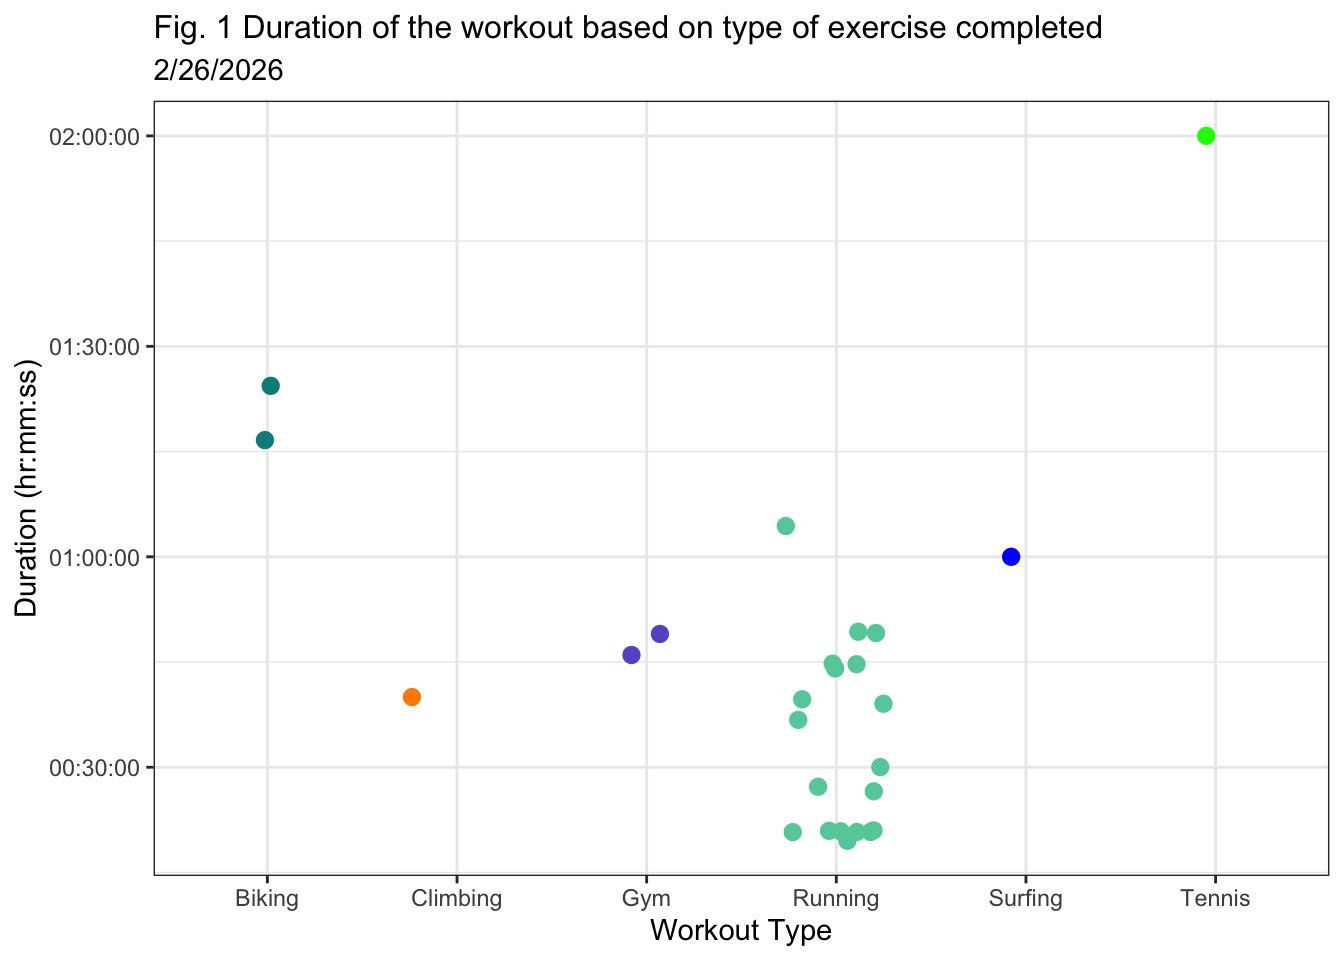
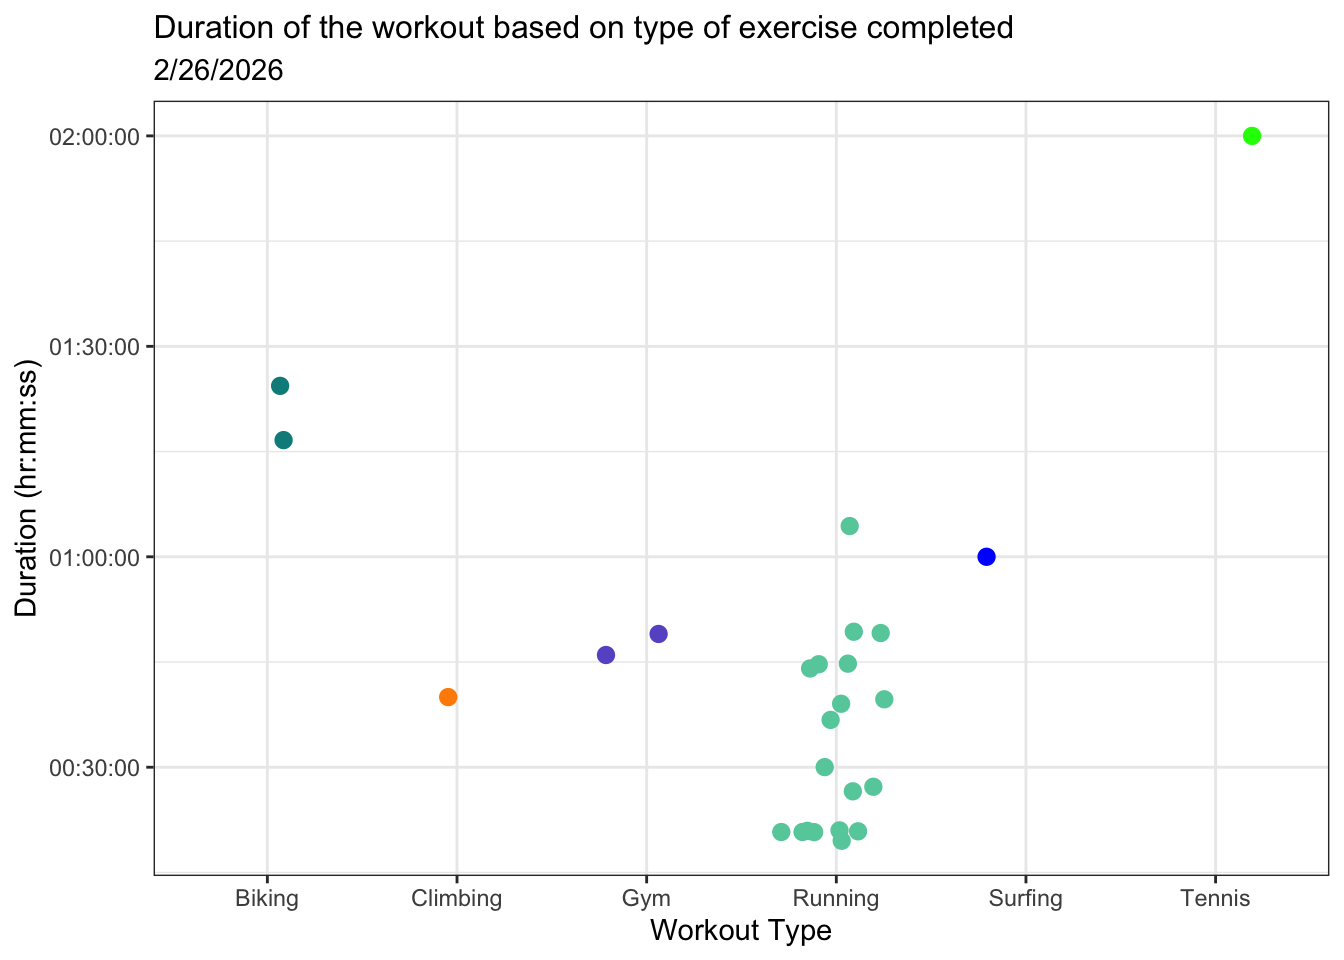
Add sketch of affective visual into the markdown

diff --git a/code/Homework 3.html b/code/Homework 3.html
@@ -243,7 +243,7 @@ sample estimates:
 <span id="cb8-15"><a href="#cb8-15" aria-hidden="true" tabindex="-1"></a>                              <span class="st">"Surfing"</span> <span class="ot">=</span> <span class="st">"blue"</span>, </span>
 <span id="cb8-16"><a href="#cb8-16" aria-hidden="true" tabindex="-1"></a>                              <span class="st">"Climbing"</span> <span class="ot">=</span> <span class="st">"darkorange"</span>, </span>
 <span id="cb8-17"><a href="#cb8-17" aria-hidden="true" tabindex="-1"></a>                              <span class="st">"Tennis"</span> <span class="ot">=</span> <span class="st">"green"</span>)) <span class="sc">+</span> </span>
-<span id="cb8-18"><a href="#cb8-18" aria-hidden="true" tabindex="-1"></a><span class="fu">labs</span>(<span class="at">title =</span> <span class="st">"Fig. 1 Duration of the workout based on type of exercise completed"</span>, <span class="co">#title </span></span>
+<span id="cb8-18"><a href="#cb8-18" aria-hidden="true" tabindex="-1"></a><span class="fu">labs</span>(<span class="at">title =</span> <span class="st">"Duration of the workout based on type of exercise completed"</span>, <span class="co">#title </span></span>
 <span id="cb8-19"><a href="#cb8-19" aria-hidden="true" tabindex="-1"></a>      <span class="at">x =</span> <span class="st">"Workout Type"</span>, <span class="co">#x-axis title </span></span>
 <span id="cb8-20"><a href="#cb8-20" aria-hidden="true" tabindex="-1"></a>      <span class="at">y =</span> <span class="st">"Duration (hr:mm:ss)"</span>, </span>
 <span id="cb8-21"><a href="#cb8-21" aria-hidden="true" tabindex="-1"></a>     <span class="at">subtitle =</span> <span class="st">"2/26/2026"</span>) <span class="sc">+</span> <span class="co">#y-axis title including units</span></span>
@@ -267,7 +267,7 @@ sample estimates:
 <span id="cb9-4"><a href="#cb9-4" aria-hidden="true" tabindex="-1"></a>       <span class="fu">aes</span>(<span class="at">x =</span> distance_mi, <span class="co"># x-axis</span></span>
 <span id="cb9-5"><a href="#cb9-5" aria-hidden="true" tabindex="-1"></a>           <span class="at">y =</span> pace)) <span class="sc">+</span> <span class="co">#y-axis</span></span>
 <span id="cb9-6"><a href="#cb9-6" aria-hidden="true" tabindex="-1"></a><span class="fu">geom_point</span>(<span class="at">color =</span> <span class="st">"cornflowerblue"</span>) <span class="sc">+</span><span class="co">#color the points</span></span>
-<span id="cb9-7"><a href="#cb9-7" aria-hidden="true" tabindex="-1"></a><span class="fu">labs</span>(<span class="at">title =</span> <span class="st">"Fig 2. Running Mileage vs. pace"</span>, <span class="co">#title </span></span>
+<span id="cb9-7"><a href="#cb9-7" aria-hidden="true" tabindex="-1"></a><span class="fu">labs</span>(<span class="at">title =</span> <span class="st">"Running Mileage vs. pace"</span>, <span class="co">#title </span></span>
 <span id="cb9-8"><a href="#cb9-8" aria-hidden="true" tabindex="-1"></a>     <span class="at">x =</span> <span class="st">"Distance (mi)"</span>, <span class="co">#x-axis title</span></span>
 <span id="cb9-9"><a href="#cb9-9" aria-hidden="true" tabindex="-1"></a>     <span class="at">y =</span> <span class="st">"Pace (h:mm:ss)"</span>, <span class="co">#y-axis title </span></span>
 <span id="cb9-10"><a href="#cb9-10" aria-hidden="true" tabindex="-1"></a>     <span class="at">subtitle =</span> <span class="st">"2/25/2026"</span>) <span class="sc">+</span> <span class="co">#add subtitle that is the date of the last recorded observation </span></span>
@@ -289,8 +289,30 @@ sample estimates:
 <p><strong>Figure 2. Scatterplot of running distance against average pace for the duration of the workout</strong> Blue points represent average pace of workout (h:mm:ss) at different mileage totals. Data were collected by the author from 1/15/2026 - 2/25/2026 as noted in subtitle. Accessed via csv download.</p>
 </section>
 </section>
-<section id="problem-3." class="level1">
-<h1>Problem 3.</h1>
+<section id="problem-3.-affective-visualization" class="level1">
+<h1>Problem 3. Affective Visualization</h1>
+<section id="a.-1" class="level2">
+<h2 class="anchored" data-anchor-id="a.-1">a.</h2>
+<p>For my personal data I am thinking of doing a watercolor painting with black pen illustrating parts of the painting. I plan on having a path meander through the center of the page representing running as the focal point of my workouts and also a representation of time. Each block on the path will represent a day that an activity was recorded with points points that are not running having a distinct icon, and a a runner at the start and the end line to represent how workout went all the way through. In order to include more variables like workout duration and pace, the shade of the block will represent the duration of the workout with darker shades showing longer duration. Outside of the blocks the depiction of the weather above them will represent the weather on the day of that activity.</p>
+</section>
+<section id="b.-sketch" class="level2">
+<h2 class="anchored" data-anchor-id="b.-sketch">b. Sketch</h2>
+<div class="quarto-figure quarto-figure-center">
+<figure class="figure">
+<p><img src="~/Desktop/ENVS%20193DS/Visual_Draft.png" class="img-fluid figure-img"></p>
+<figcaption>Affective Visual Sketch</figcaption>
+</figure>
+</div>
+</section>
+<section id="c.-rough-draft" class="level2">
+<h2 class="anchored" data-anchor-id="c.-rough-draft">c.&nbsp;Rough Draft</h2>
+</section>
+<section id="d.-artist-statement" class="level2">
+<h2 class="anchored" data-anchor-id="d.-artist-statement">d.&nbsp;Artist Statement</h2>
+</section>
+<section id="e.-link" class="level2">
+<h2 class="anchored" data-anchor-id="e.-link">e. Link</h2>
+</section>
 </section>
 <section id="problem-4.-statistical-crituqe" class="level1">
 <h1>Problem 4. Statistical crituqe</h1>
